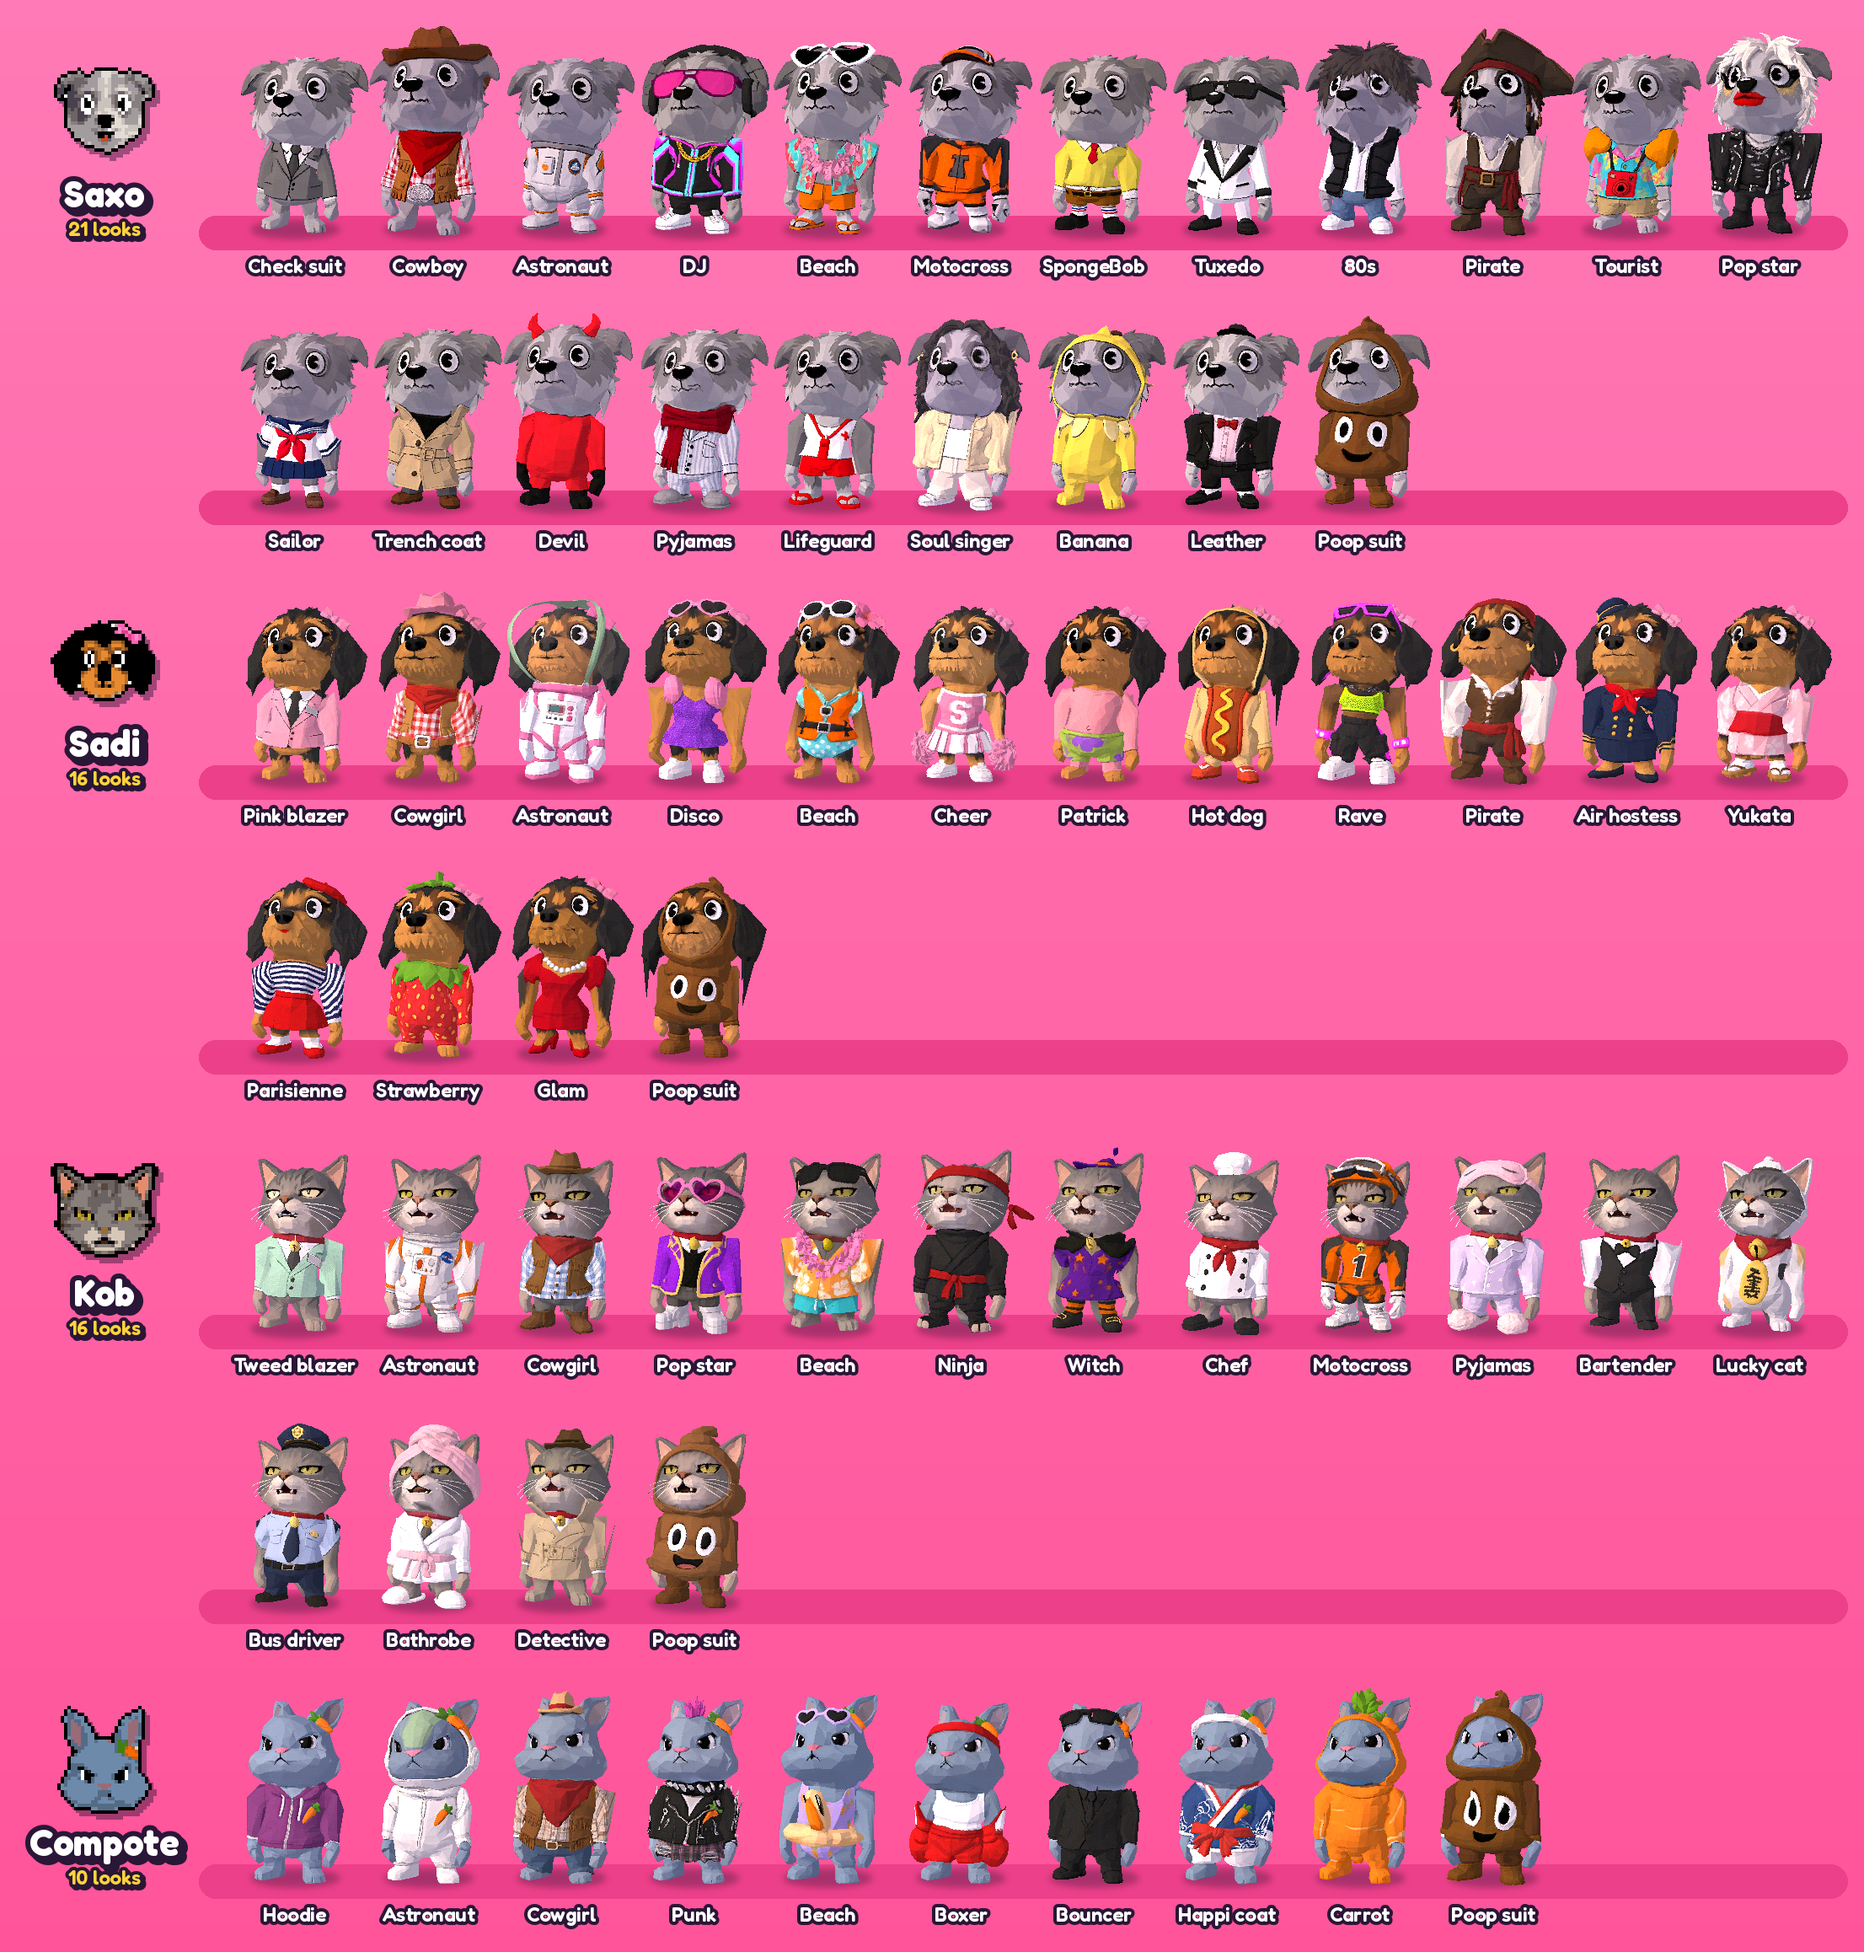
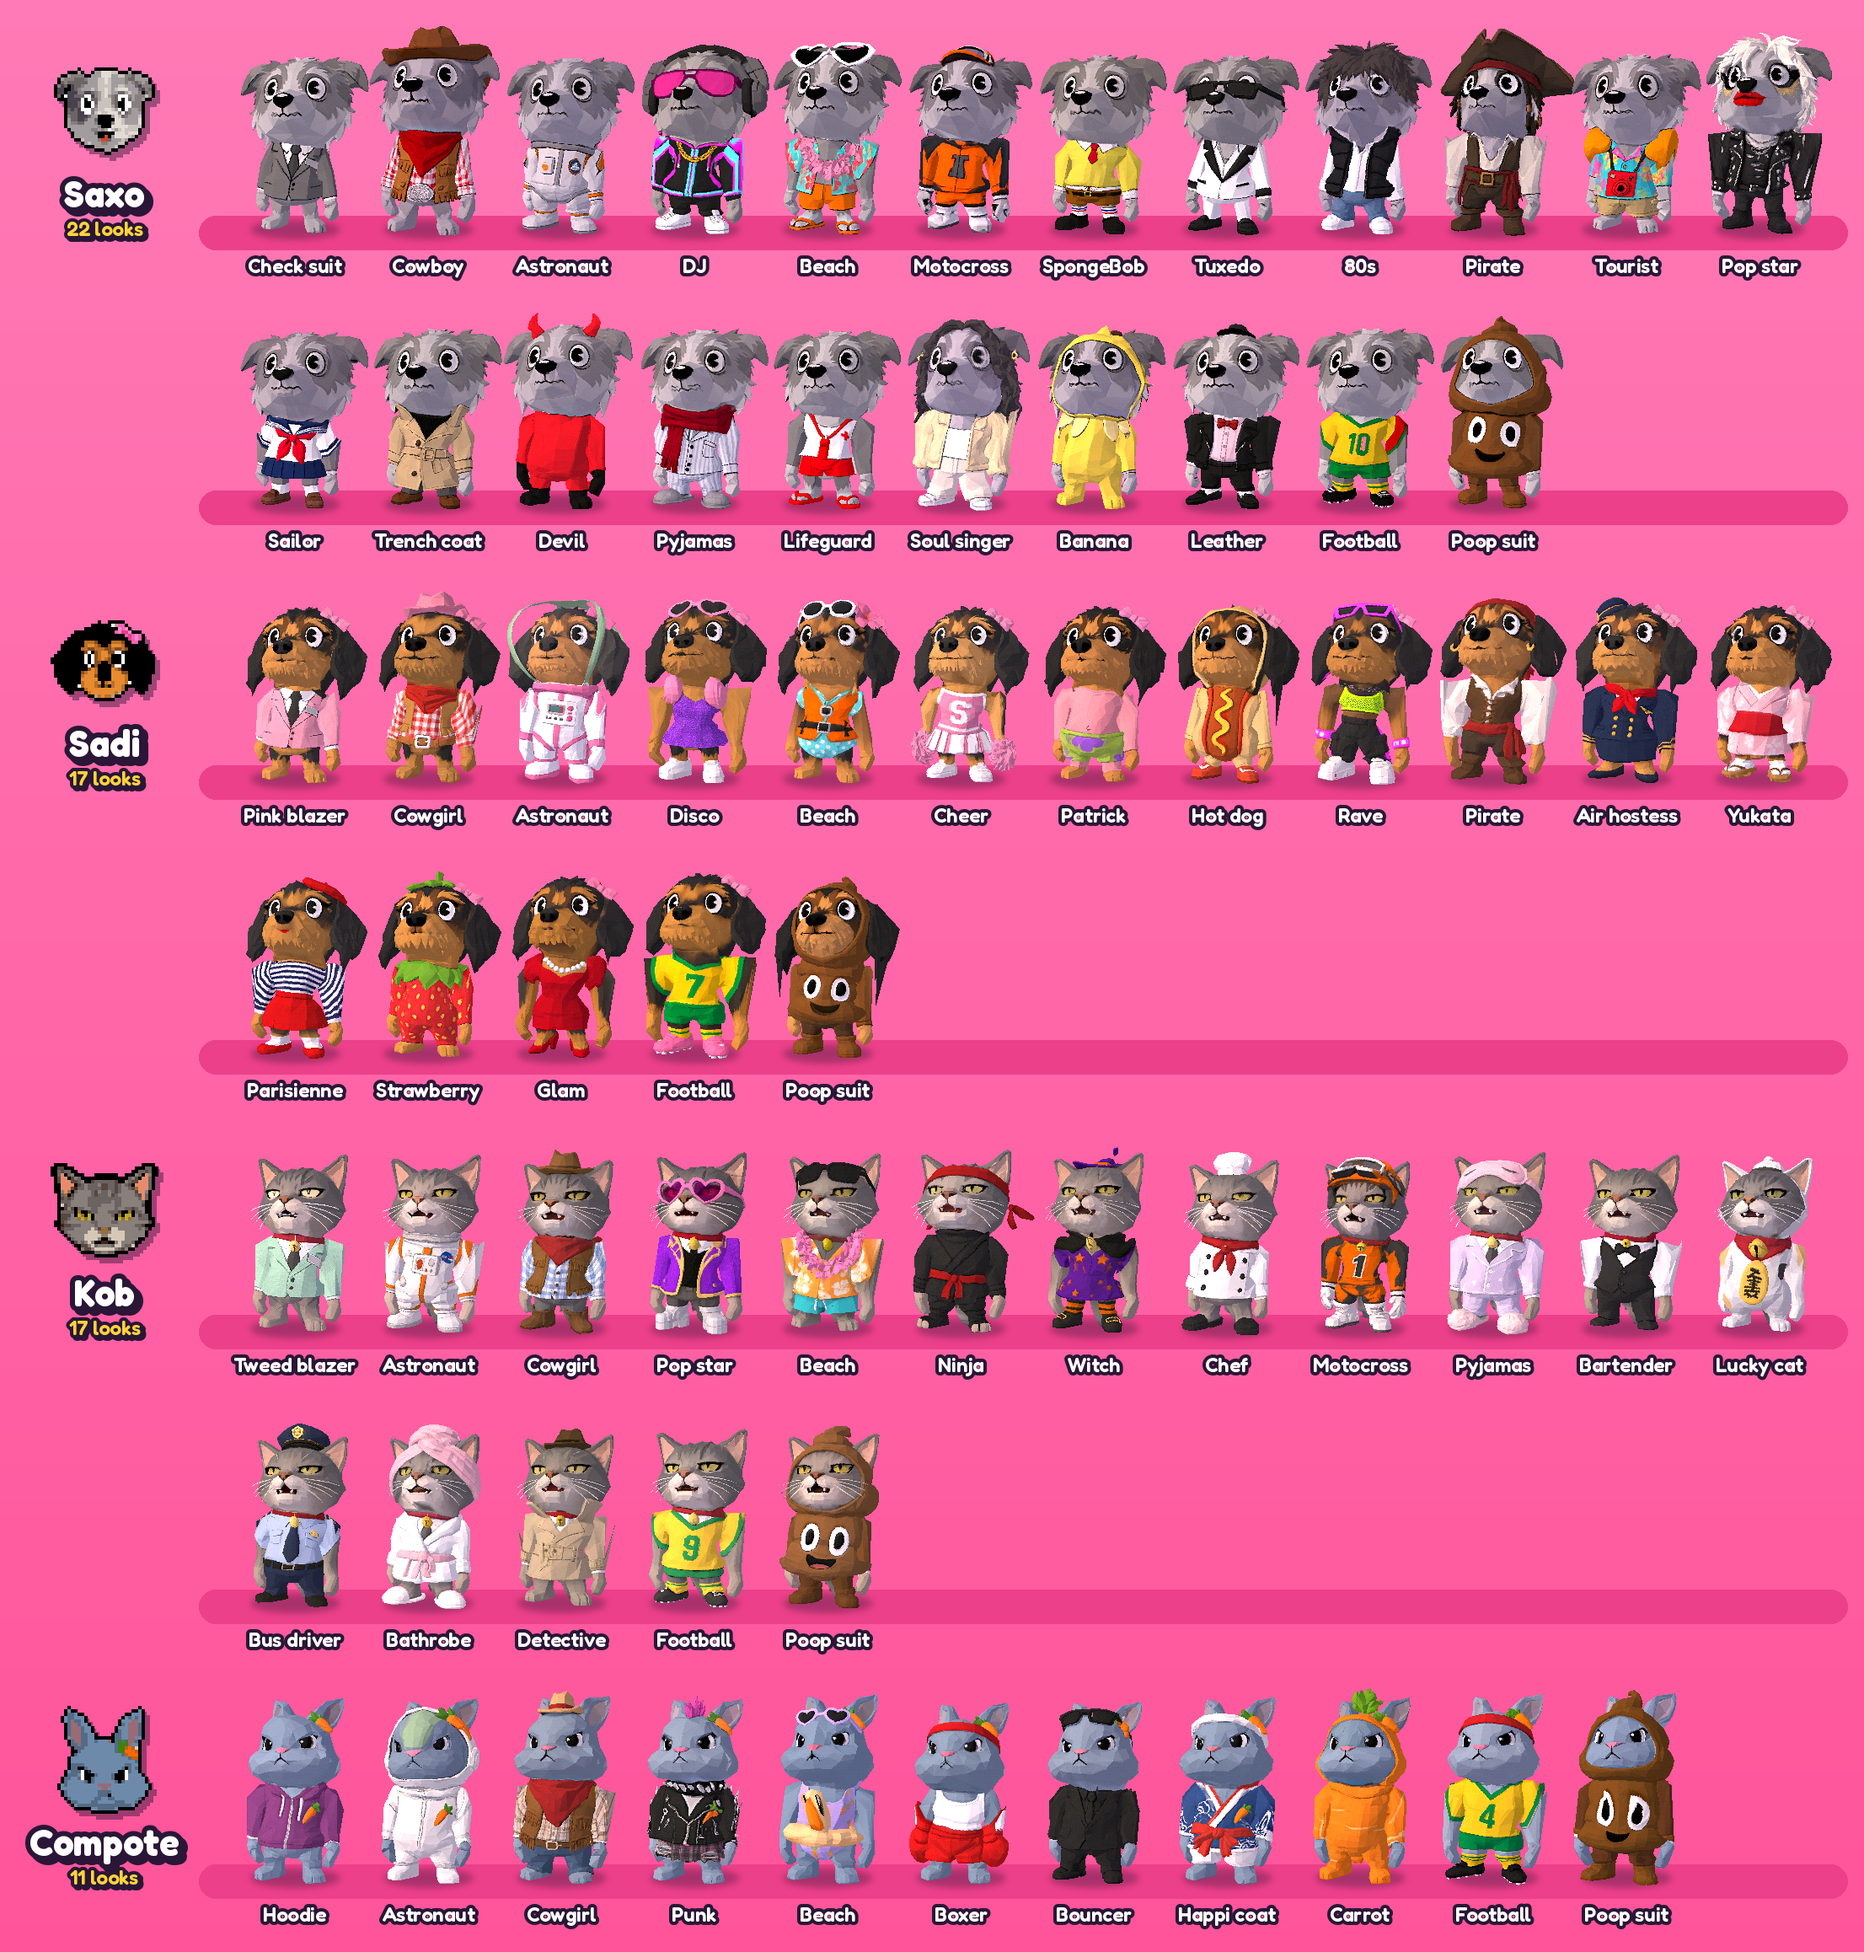
Sync with b90ada5: docs(readme): add the cup final, tiny Earth and savanna maps and the football kit

diff --git a/README.md b/README.md
@@ -61,8 +61,9 @@
       job keep their running gags going from video to video, plus costume changes on the beat, crowds, giants (a
       19-metre bunny rising from the sea), a sneeze that spreads through a whole party, a lifeguard filming selfies
       while the wave pool goes wrong behind him, a flight through turbulence over erupting volcanoes, a tiny double who
-      copies his every move until a camera flash freezes them both in an instant photo, thrown props, a
-      fight with a slow-motion replay and skate tricks.</p>
+      copies his every move until a camera flash freezes them both in an instant photo, a penalty shoot-out whose last
+      run-up goes round the world while the keeper falls asleep, thrown props, a fight with a slow-motion replay and
+      skate tricks.</p>
       <p><b>The loop.</b> Trends go in; views, likes and shares come back out into a playbook that the next video
       reads.</p>
     </td>
@@ -87,7 +88,7 @@
 </table>
 
 <p align="center">
-  <img src="docs/readme/wardrobe.png" width="100%" alt="The wardrobe: every look of Saxo, Sadi, Kob and Compote, from cowboy and astronaut to SpongeBob, a white tuxedo, Kob's pyjamas, the pirates, the tourist, the air hostess, a pop-star disguise, Kob the bartender, a sailor uniform, a yukata, a lucky-cat suit, a happi coat, a trench coat, a Parisienne, a bus driver, sick-day pyjamas, a devil suit, a lifeguard, a bathrobe, a soul singer, a banana, a strawberry, a carrot and the poop suit">
+  <img src="docs/readme/wardrobe.png" width="100%" alt="The wardrobe: every look of Saxo, Sadi, Kob and Compote, from cowboy and astronaut to SpongeBob, a white tuxedo, Kob's pyjamas, the pirates, the tourist, the air hostess, a pop-star disguise, Kob the bartender, a sailor uniform, a yukata, a lucky-cat suit, a happi coat, a trench coat, a Parisienne, a bus driver, sick-day pyjamas, a devil suit, a lifeguard, a bathrobe, a soul singer, a banana, a strawberry, a carrot, a leather jacket, Kob the private eye, a sequin dress, the team's football kit and the poop suit">
 </p>
 
 Each map dresses the cast for the occasion: astronaut suits on the moon, cowboy hats out west, SpongeBob and Patrick
@@ -96,7 +97,7 @@ in Bikini Bottom, a hot dog in the supermarket. The poop suit is never automatic
 ## 50 maps, and counting
 
 <p align="center">
-  <img src="docs/readme/maps.png" width="100%" alt="The maps, from the street, club and moon to Tokyo, Paris, the yacht, the techno club, the treasure cave, the black ship, the plane, the chapel club, the desert village, the blossom festival, the pier at dusk, the night bus, a house party, a hospital ward, a water park, a radio studio, a fruits-only warehouse party and a film-noir night street, each with the cast in costume">
+  <img src="docs/readme/maps.png" width="100%" alt="The maps, from the street, club and moon to Tokyo, Paris, the yacht, the techno club, the treasure cave, the black ship, the plane, the chapel club, the desert village, the blossom festival, the pier at dusk, the night bus, a house party, a hospital ward, a water park, a radio studio, a fruits-only warehouse party, a film-noir night street, a cup final under the floodlights, a tiny Earth in space and a baobab on the savanna, each with the cast in costume">
 </p>
 
 Every map is built from primitives in [`src/maps*.js`](src/) and animated as a pure function of time, mostly on the
